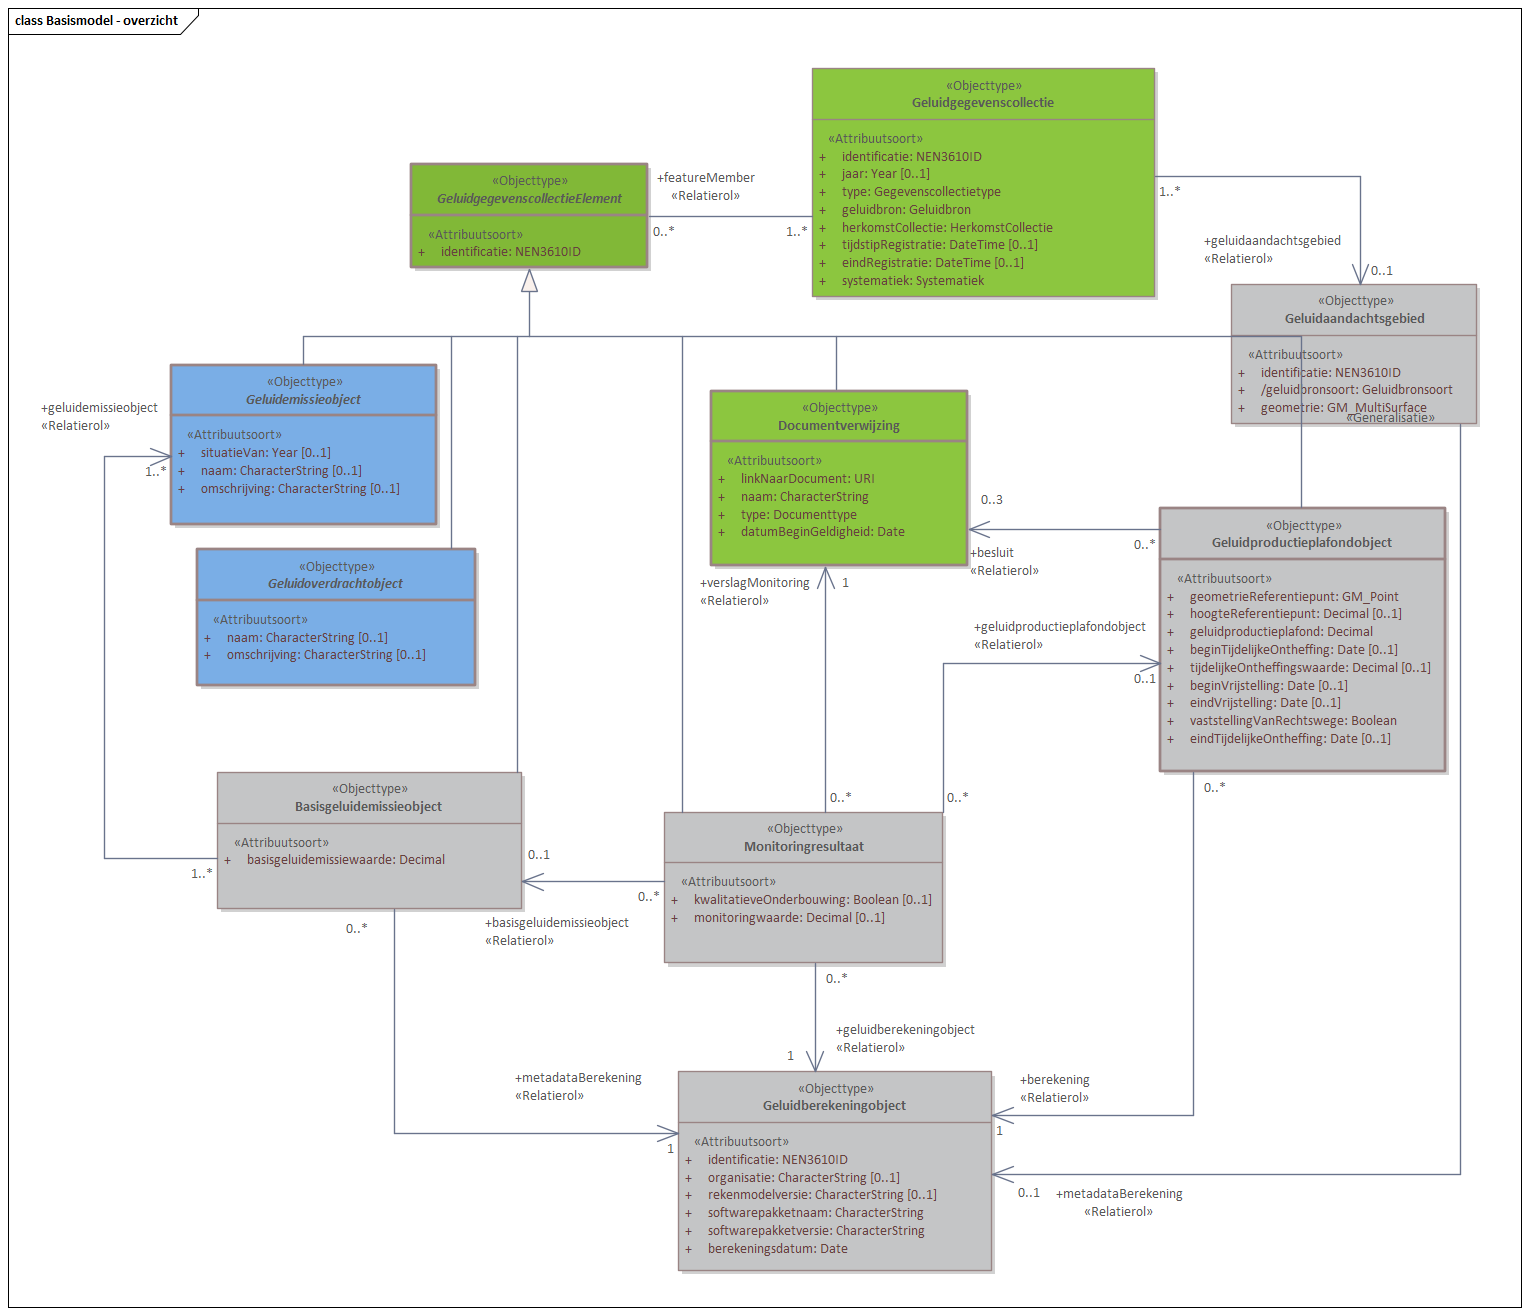
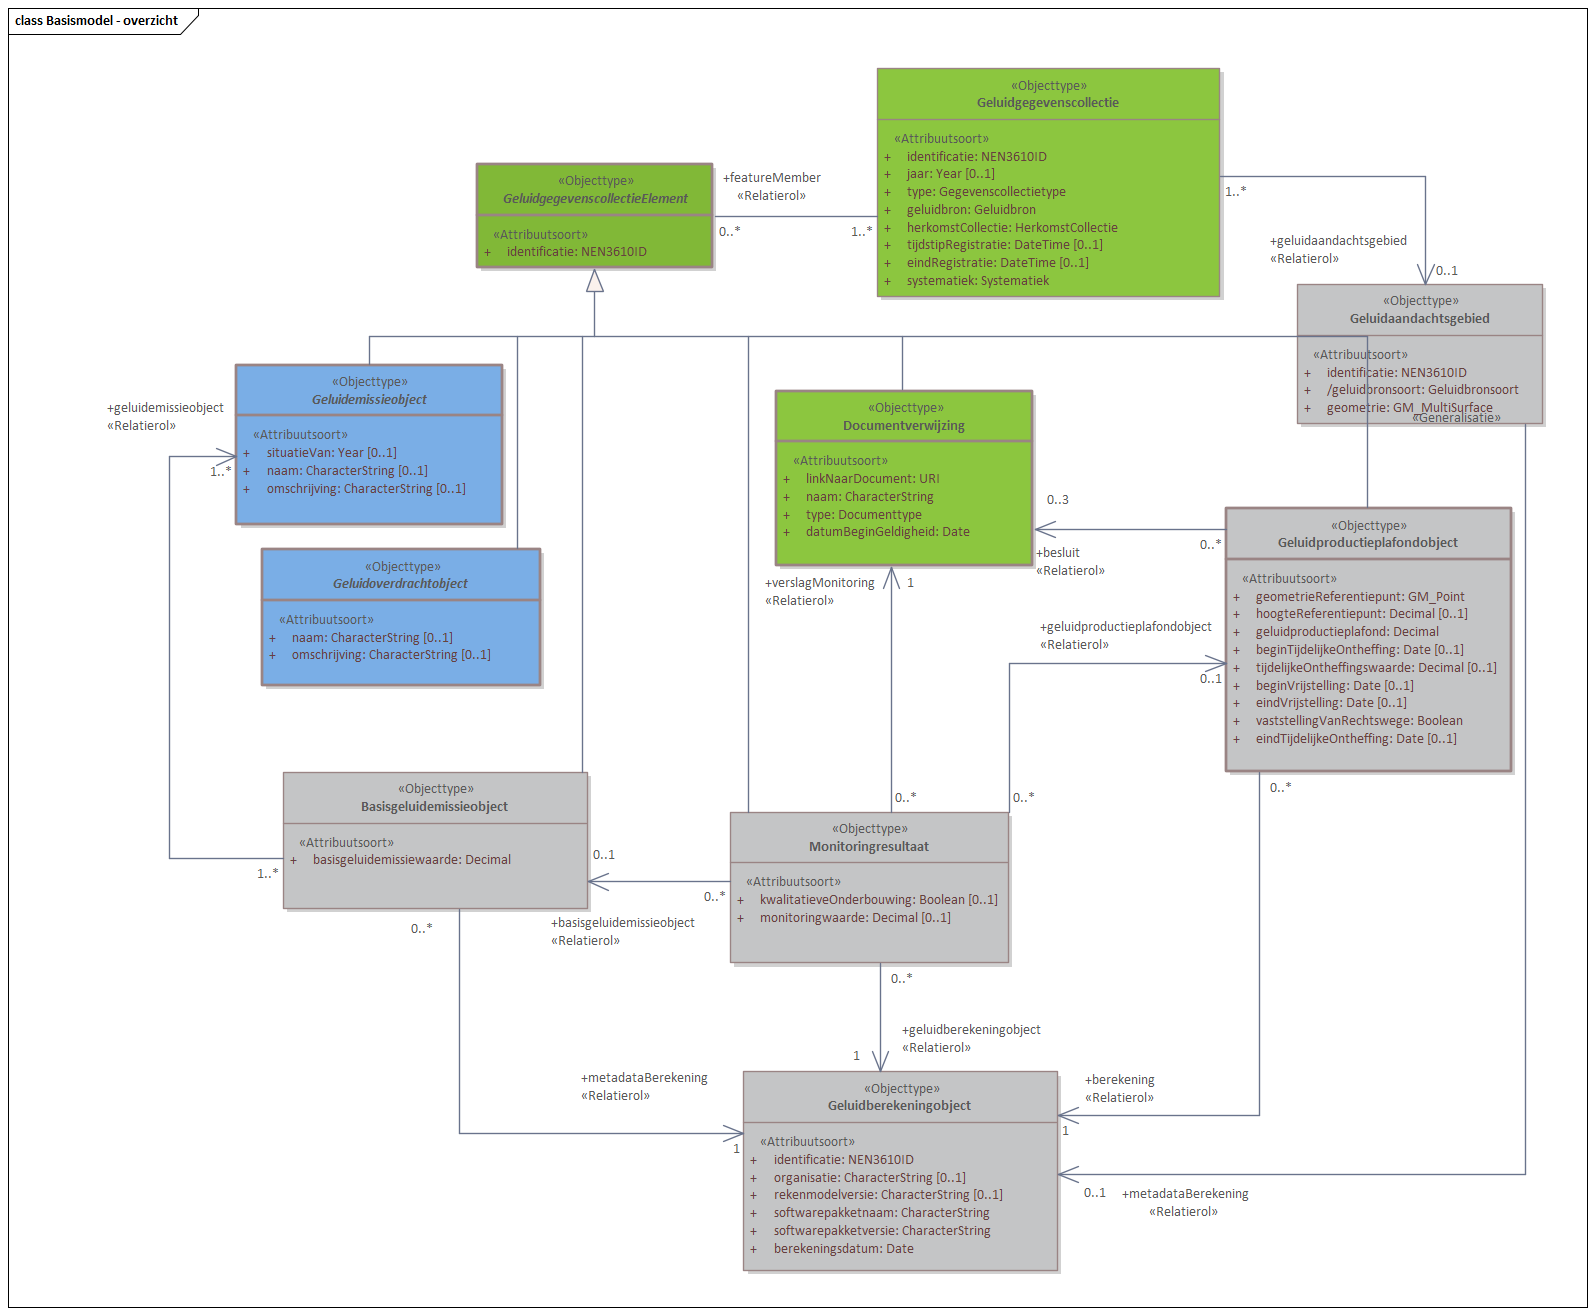
MIMLM-InformatiemodelGeluid-1.1-0-20210521-20211108-111508

diff --git a/data/IMG-cat.respec.html b/data/IMG-cat.respec.html
@@ -1,10 +1,10 @@
 
 <!DOCTYPE HTML><section id="cat" class="normative">
    <h2>Gegevensdefinitie</h2>
-   <!--MIMLM-InformatiemodelGeluid-1.1-0-20210521-20211104-165050 imvertor 1.65.2-->
+   <!--MIMLM-InformatiemodelGeluid-1.1-0-20210521-20211108-111508 imvertor 1.65.2-->
    <section id="EAID_66AE8FA2_74FC_4d4d_B2B2_249C8D6A651F">
       <h3>   Basismodel - overzicht</h3>
-      <div class="imageinfo overview"><img src="data/Images/EAID_66AE8FA2_74FC_4d4d_B2B2_249C8D6A651F.png" usemap="#imagemap-EAID_66AE8FA2_74FC_4d4d_B2B2_249C8D6A651F" alt="Diagram &#xA;                        Het Basismodel vormt de samenhang tussen alle domeinen van het IMGeluid. Alle objecttypen en relaties uit het IMGeluid komen samen in een Geluidgegevenscollectie.&#xA;                        Binnen het IMGeluid worden geluidbrongegevens die gebruikt worden voor GPP en BGE berekeningen, gemodelleerd als een Geluidemissie of Geluidoverdrachtobject. De resultaten van GPP of BGE berekeningen worden opgeslagen in een Geluidgegevenscollectie. De onderliggende juridische vastleggingen, vaststellingen, of monitoringsverslagen van deze omgevings- of monitoringswaarden, worden ook opgeslagen in dezelfde Geluidgegevenscollectie.&#xA;                        Per geluidbron per toepassing kan er een Geluidgegevenscollectie bestaan. Deze kan geassocieerd worden met maximaal 1 Geluidaandachtsgebied. Wanneer geluidgegevens met betrekking tot cumulatieberekeningen worden aangeleverd, bevat een Geluidgegevenscollectie geen Geluidaandachtsgebied.&#xA;                        &#xA;                        # test&#xA;                        &#xA;                        Klik met de rechtermuisknop op het diagram om de afbeelding op volledige grote in een nieuw tabblad te openen.&#xA;                     "><map name="imagemap-EAID_66AE8FA2_74FC_4d4d_B2B2_249C8D6A651F"><area shape="rect" alt="GeluidgegevenscollectieElement" coords="411,164,648,268" href="#graph_EAID_924BD078_D715_461a_B7E9_D7176A7406E0"><area shape="rect" alt="Monitoringresultaat" coords="664,812,943,963" href="#graph_EAID_BA00B77B_D408_4590_8185_CE59E5838F1E"><area shape="rect" alt="Basisgeluidemissieobject" coords="217,772,522,909" href="#graph_EAID_9AD15457_4880_42e5_8C72_4E5EFAC91B15"><area shape="rect" alt="Geluidproductieplafondobject" coords="1160,508,1446,772" href="#graph_EAID_237408F8_8CE9_4828_B8FB_1A5B8C917622"><area shape="rect" alt="Geluidberekeningobject" coords="678,1071,992,1271" href="#graph_EAID_97ED59FE_9FCA_49a6_8F07_214E48000B76"><area shape="rect" alt="Documentverwijzing" coords="711,391,968,566" href="#graph_EAID_7E137496_1028_4af5_9367_569358A2167B"><area shape="rect" alt="Geluidaandachtsgebied" coords="1231,284,1477,424" href="#graph_EAID_B06128AC_518C_4e26_88E5_14ED5A050A19"><area shape="rect" alt="Geluidgegevenscollectie" coords="812,68,1155,297" href="#graph_EAID_313C5AF9_49B8_4860_9E65_DE7C70084864"><area shape="rect" alt="Geluidemissieobject" coords="171,365,437,525" href="#graph_EAID_361C96BA_A638_494e_80BA_590ED481A81B"><area shape="rect" alt="Geluidoverdrachtobject" coords="197,549,476,686" href="#graph_EAID_2FEA326B_B7E7_48a4_B50F_00CCB2694677"></map><p><b>Basismodel - overzicht</b>
+      <div class="imageinfo overview"><img src="data/Images/EAID_66AE8FA2_74FC_4d4d_B2B2_249C8D6A651F.png" usemap="#imagemap-EAID_66AE8FA2_74FC_4d4d_B2B2_249C8D6A651F" alt="Diagram &#xA;                        Het Basismodel vormt de samenhang tussen alle domeinen van het IMGeluid. Alle objecttypen en relaties uit het IMGeluid komen samen in een Geluidgegevenscollectie.&#xA;                        Binnen het IMGeluid worden geluidbrongegevens die gebruikt worden voor GPP en BGE berekeningen, gemodelleerd als een Geluidemissie of Geluidoverdrachtobject. De resultaten van GPP of BGE berekeningen worden opgeslagen in een Geluidgegevenscollectie. De onderliggende juridische vastleggingen, vaststellingen, of monitoringsverslagen van deze omgevings- of monitoringswaarden, worden ook opgeslagen in dezelfde Geluidgegevenscollectie.&#xA;                        Per geluidbron per toepassing kan er een Geluidgegevenscollectie bestaan. Deze kan geassocieerd worden met maximaal 1 Geluidaandachtsgebied. Wanneer geluidgegevens met betrekking tot cumulatieberekeningen worden aangeleverd, bevat een Geluidgegevenscollectie geen Geluidaandachtsgebied.&#xA;                        &#xA;                        # test&#xA;                        &#xA;                        Klik met de rechtermuisknop op het diagram om de afbeelding op volledige grote in een nieuw tabblad te openen.&#xA;                     "><map name="imagemap-EAID_66AE8FA2_74FC_4d4d_B2B2_249C8D6A651F"><area shape="rect" alt="GeluidgegevenscollectieElement" coords="477,164,713,268" href="#graph_EAID_924BD078_D715_461a_B7E9_D7176A7406E0"><area shape="rect" alt="Monitoringresultaat" coords="730,812,1009,963" href="#graph_EAID_BA00B77B_D408_4590_8185_CE59E5838F1E"><area shape="rect" alt="Basisgeluidemissieobject" coords="283,772,588,909" href="#graph_EAID_9AD15457_4880_42e5_8C72_4E5EFAC91B15"><area shape="rect" alt="Geluidproductieplafondobject" coords="1226,508,1512,772" href="#graph_EAID_237408F8_8CE9_4828_B8FB_1A5B8C917622"><area shape="rect" alt="Geluidberekeningobject" coords="743,1071,1058,1271" href="#graph_EAID_97ED59FE_9FCA_49a6_8F07_214E48000B76"><area shape="rect" alt="Documentverwijzing" coords="776,391,1033,566" href="#graph_EAID_7E137496_1028_4af5_9367_569358A2167B"><area shape="rect" alt="Geluidaandachtsgebied" coords="1297,284,1543,424" href="#graph_EAID_B06128AC_518C_4e26_88E5_14ED5A050A19"><area shape="rect" alt="Geluidgegevenscollectie" coords="877,68,1220,297" href="#graph_EAID_313C5AF9_49B8_4860_9E65_DE7C70084864"><area shape="rect" alt="Geluidemissieobject" coords="236,365,503,525" href="#graph_EAID_361C96BA_A638_494e_80BA_590ED481A81B"><area shape="rect" alt="Geluidoverdrachtobject" coords="262,549,541,686" href="#graph_EAID_2FEA326B_B7E7_48a4_B50F_00CCB2694677"></map><p><b>Basismodel - overzicht</b>
             
             <p>Het Basismodel vormt de samenhang tussen alle domeinen van het IMGeluid. Alle objecttypen
                en relaties uit het IMGeluid komen samen in een Geluidgegevenscollectie.</p>
@@ -24896,7 +24896,7 @@
 </section>
 <section id="lis" class="normative">
    <h2>Inhoud van waardenlijsten</h2>
-   <!--MIMLM-InformatiemodelGeluid-1.1-0-20210521-20211104-165050 imvertor 1.65.2--><a class="anchor" id="graph_EAID_C9ACE184_6E2B_40c1_ACE0_A7C5EE554EF9"></a><a class="anchor" id="detail_class_IMGeluidAlgemeen_Schermtype"></a><section id="detail_class_IMGeluidAlgemeen_Schermtype">
+   <!--MIMLM-InformatiemodelGeluid-1.1-0-20210521-20211108-111508 imvertor 1.65.2--><a class="anchor" id="graph_EAID_C9ACE184_6E2B_40c1_ACE0_A7C5EE554EF9"></a><a class="anchor" id="detail_class_IMGeluidAlgemeen_Schermtype"></a><section id="detail_class_IMGeluidAlgemeen_Schermtype">
       <h3>Enumeratie details  Schermtype</h3>
       
       <table style="width: 100%;" class="list">
